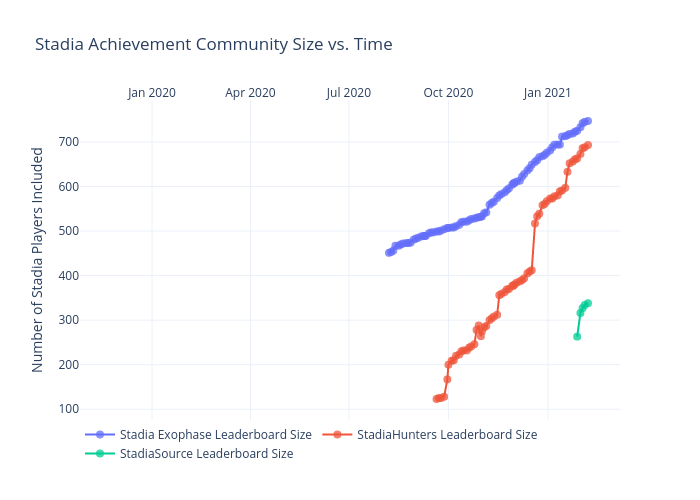
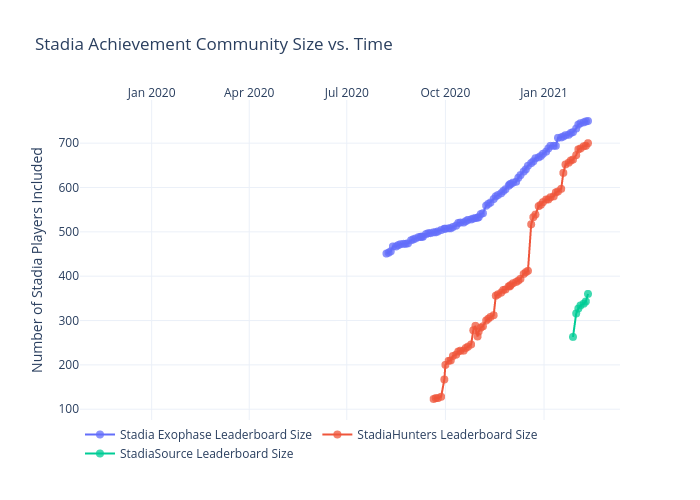
Add files via upload

diff --git a/achievements/figure.js b/achievements/figure.js
@@ -145,7 +145,9 @@ var figure = {
                 "2021-01-31",
                 "2021-02-02",
                 "2021-02-04",
-                "2021-02-07"
+                "2021-02-07",
+                "2021-02-09",
+                "2021-02-11"
             ],
             "ysrc": "jdeslip:382:613c2c",
             "y": [
@@ -282,7 +284,9 @@ var figure = {
                 "733",
                 "742",
                 "745",
-                "747"
+                "747",
+                "749",
+                "750"
             ],
             "marker": {
                 "size": 8,
@@ -437,7 +441,9 @@ var figure = {
                 "2021-01-31",
                 "2021-02-02",
                 "2021-02-04",
-                "2021-02-07"
+                "2021-02-07",
+                "2021-02-09",
+                "2021-02-11"
             ],
             "ysrc": "jdeslip:382:b533e0",
             "y": [
@@ -574,7 +580,9 @@ var figure = {
                 "673",
                 "686",
                 "688",
-                "693"
+                "693",
+                "694",
+                "700"
             ],
             "marker": {
                 "size": 8,
@@ -729,7 +737,9 @@ var figure = {
                 "2021-01-31",
                 "2021-02-02",
                 "2021-02-04",
-                "2021-02-07"
+                "2021-02-07",
+                "2021-02-09",
+                "2021-02-11"
             ],
             "ysrc": "jdeslip:382:05cfbe",
             "y": [
@@ -866,7 +876,9 @@ var figure = {
                 "316",
                 "327",
                 "334",
-                "338"
+                "338",
+                "343",
+                "360"
             ],
             "marker": {
                 "size": 8,
@@ -885,8 +897,8 @@ var figure = {
             "side": "top",
             "type": "date",
             "range": [
-                "2019-10-28 19:04:50.6832",
-                "2021-03-06 04:55:09.3168"
+                "2019-10-28 13:08:42.4167",
+                "2021-03-10 10:51:17.5833"
             ],
             "title": {
                 "text": ""
@@ -896,8 +908,8 @@ var figure = {
         "yaxis": {
             "type": "linear",
             "range": [
-                78.35156924848833,
-                791.6484307515117
+                78.13691333141375,
+                794.8630866685862
             ],
             "title": {
                 "text": "Number of Stadia Players Included"
